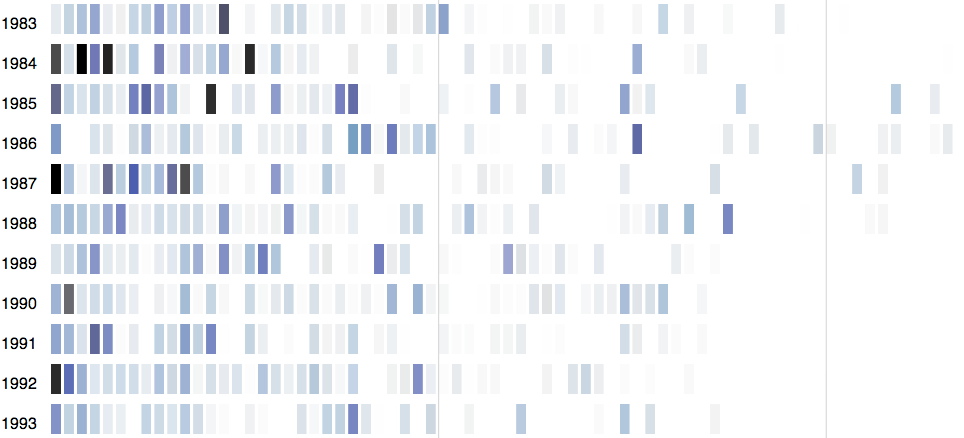
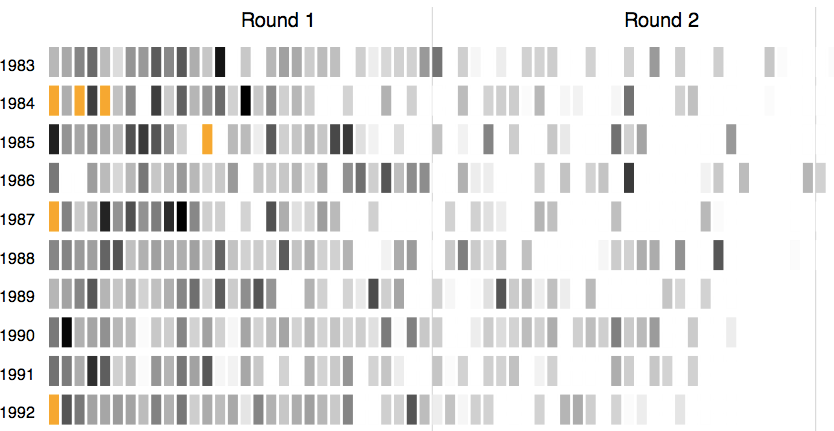
updated draft history

diff --git a/nba-draft-history/js/code.js b/nba-draft-history/js/code.js
@@ -2,22 +2,23 @@
 var svg = null,
 	width = 1200,
 	height = 1250,
+	mvps = null,
 	firstDraft = 1983,
 	lastDraft = 2012;
 
 // scales
 var xScale = d3.scale.linear()
-				.domain([ 0, 89 ])	// first 90 picks should do it
+				.domain([ 0, 90 ])	// first 90 picks should do it
 				.range([ 50, width ]),
 	yScale = d3.scale.linear()
 				.domain([ firstDraft, lastDraft ])	// years including drafts
-				.range([ 1, lastDraft - firstDraft + 1 ]),
+				.range([ 1, lastDraft - firstDraft ]),
 	opacity = d3.scale.linear()
 				.domain([ 0, 1 ])
 				.range([ 0, 1 ]),
 	color = d3.scale.linear()
-				.domain([ 0, 1, 50, 100, 150 ])
-				.range([ "white", "lightgrey", "steelblue", "darkblue", "black" ])
+				.domain([ 0, 1, 150 ])
+				.range([ "white", "lightgrey", "black" ])
 
 // mouse over function sets infobox
 var hover = function( ) {
@@ -27,11 +28,10 @@ var hover = function( ) {
 	d3.select( "div.info .info-team" ).text( data.team );
 	d3.select( "div.info .info-year" ).text( data.year );
 	d3.select( "div.info .info-ws" ).text( data.ws || "?" );
-	d3.select( "div.info .info-ws48" ).text( data.ws48 || "?");
 };
 
 // loads data of a given draft
-var loadData = function( year, callback ) {
+var loadDraft = function( year, callback ) {
 	d3.csv( "data/draft" + year + ".csv", function( row, i ) {
 		return {
 			"name": row.Player,
@@ -39,14 +39,13 @@ var loadData = function( year, callback ) {
 			"college": row.College,
 			"year": year,
 			"pick": i,
-			"ws": row.WS,
-			"ws48": row.WS48
+			"ws": row.WS
 		};
 	}, callback);
 };
 
 // displays draft
-var showData = function( draft ) {
+var showDraft = function( draft ) {
 	// render player bars
 	svg
 		.selectAll( "rect" )
@@ -54,11 +53,11 @@ var showData = function( draft ) {
 		.enter()
 		.append( "rect" )
 			.attr( "class", "player" )
+			.classed( "mvp", function( d ) { return mvps[d.name]!=null; })
 			.attr( "width", 10 )
 			.attr( "height", 30 )
 			.attr( "x", function( d ) { return xScale( d.pick ); })
 			.attr( "y", function( d ) { return yScale( d.year ) * 40; })
-			.attr( "opacity", function( d ) { return opacity( d.ws48*4 ); })
 			.style( "fill", function( d ) { return color( d.ws ); })
 			.on( "mouseover", hover);
 				
@@ -70,6 +69,35 @@ var showData = function( draft ) {
 			.attr( "x", 0 )
 			.attr( "y", yScale( year + 1 ) * 40 - 15 )
 			.text( year );
+};
+
+var loadMVP = function() {
+	var defer = jQuery.Deferred();
+	d3.csv( "data/mvps.csv", function( row, i ) {
+		return {
+			"name": row.Player
+		};
+	}, function( data ) {
+		var mvplist = {};
+		for ( var i = 0; i < data.length; i++ ) {
+			if (mvplist[data[i].name]) {
+				mvplist[data[i].name] += 1;
+			} else {
+				mvplist[data[i].name] = 1;
+			}
+		}
+		mvps = mvplist;
+		defer.resolve( mvplist );
+	});
+	return defer.promise();
+};
+
+var highlightMVP = function( show ) {
+	if ( show ) {
+		svg.selectAll( "rect.player.mvp" ).style( "fill", "orange" );
+	} else {
+		svg.selectAll( "rect.player.mvp" ).style( "fill", function( d ) { return color( d.ws ); });
+	}
 };
 
 // draws lines between draft rounds
@@ -116,9 +144,15 @@ var drawLegend = function() {
 
 $( document ).ready( function() {
 	svg = d3.select( "svg.visualization" );
-	for ( var i = firstDraft; i <= lastDraft; i++ ) {
-		loadData( i, showData );
-	}
-	drawLegend();
+	loadMVP().then( function( mvplist ) {
+		for ( var i = firstDraft; i <= lastDraft; i++ ) {
+			loadDraft( i, showDraft );
+		}
+		drawLegend();
+
+		$( "input" ).change( function() {
+			highlightMVP( $(this).is(":checked" ) );
+		} );
+	});
 });
 

diff --git a/nba-draft-history/index.html b/nba-draft-history/index.html
@@ -12,17 +12,19 @@
 		<div>
 			<h1 class="text">30 years of NBA Drafts</h1>
 			<p class="text">
-				Each row represents one NBA draft and each rectangle one player. Draft order is from left to right, so the left-most player was the first pick. The darker the color, the greater the impact of the player measured in win shares. The more opaque, the less efficient he was measured in win shares per 48 minutes.
+				How successful has a certain draft pick been in his career? The darker, the more wins he generated for his teams.
+			</p>
+			<p class="text">
+				<input id="highlight" type="checkbox" value="highlight"/>
+				<label for="highlight">Highlight MVPs</label>
 			</p>
 		</div>
 		<div class="info">
 			<h3 class="info-player">Me</h3>
 			Picked <span class="info-pick">1</span>. in <span class="info-year">2013</span>
 			<div>by <span class="info-team">Cleveland</span></div>
-			<h4>Win Shares Total</h4>
+			<h4>Win Shares</h4>
 			<span class="info-ws">0</span>
-			<h4>Win Shares per 48 minutes</h4>
-			<span class="info-ws48">0</span>
 		</div>
 		<svg class="visualization" width="1200" height="1250">
 		</svg>

diff --git a/nba-draft-history/css/style.css b/nba-draft-history/css/style.css
@@ -36,7 +36,7 @@ div.info {
 	right: 10px;
 	bottom: 10px;
 	color: #16161d;
-	border-left: 1px solid darkblue;;
+	border-left: 1px solid #16161d;;
 	padding: 20px;
 	font-size: 16px;
 }
